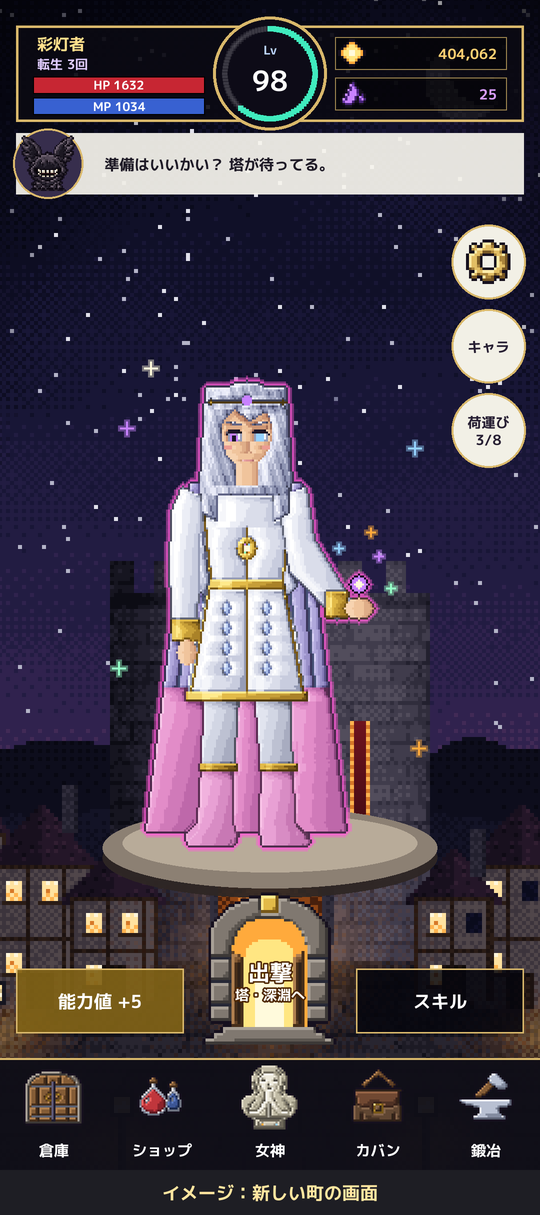
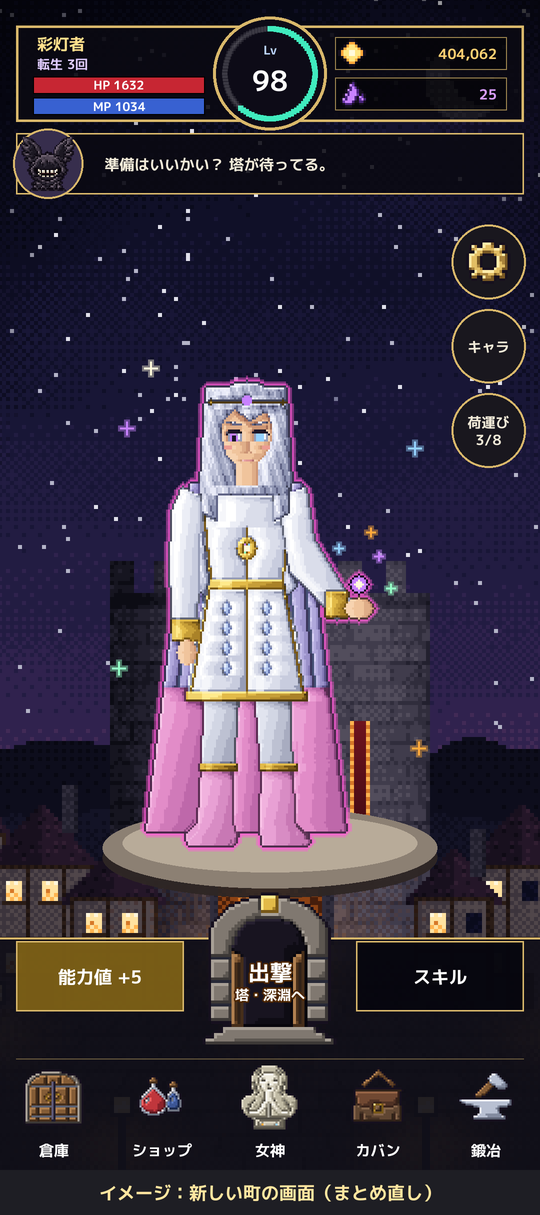
Town home: dark doorway, and a more unified look
Guide banner and round buttons use the same dark panel with gold trim as
the info card; STATS, the gate and SKILLS sit on one dock that continues
into the facility tabs, with the side buttons centered on the gate.

Claude-Session: https://claude.ai/code/session_01XMEo4x59g4Ygvken3HiQNb

diff --git a/Game/Assets/Scripts/Core/PortraitArt.cs b/Game/Assets/Scripts/Core/PortraitArt.cs
@@ -48,8 +48,9 @@ namespace VividOfFade
             return Store(key, MakeTexture(key, w, h, px, TextureWrapMode.Clamp), w);
         }
 
-        /// <summary>町の「出撃」の絵：石の門（開いた扉の奥から灯りがあふれる）と、その前の階段。</summary>
-        public static Sprite GateIcon => Shaded("GateIcon48", GateRows, null, null, 48);
+        /// <summary>町の「出撃」の絵：石の門（開いた扉の奥は暗い塔の中）と、その前の階段。</summary>
+        public static Sprite GateIcon => Shaded("GateIcon48b", GateRows, GateOver, null, 48);
+        static readonly Dictionary<char, Color32[]> GateOver = new Dictionary<char, Color32[]> { { 'n', Ramp(38, 32, 48, 24, 20, 32, 14, 12, 20, 8, 6, 12) } }; // 門の奥：ほとんど黒（塔の中の暗がり）
 
         static readonly string[] GateRows =
         {
@@ -62,43 +63,43 @@ namespace VividOfFade
             ".........qqqqqqqqqqqqggggggqqqqqqqqqqqq.........",
             "........qqqqqqqqqqqqqqqqqqqqqqqqqqqqqqqq........",
             ".......qqqqqqqqqqqqqqqqqqqqqqqqqqqqqqqqqq.......",
-            "......qqqqqqqqqqqqqLLLLLLLLLLqqqqqqqqqqqqq......",
-            ".....qqqqqqqqqqqLLLLLLLLLLLLLLLLqqqqqqqqqqq.....",
-            ".....qqqqqqqqqqLLLLLLLLLLLLLLLLLLqqqqqqqqqq.....",
-            "....qqqqqqqqqqLLLLLLLLLLLLLLLLLLLLqqqqqqqqqq....",
-            "....qqqqqqqqqLLLLLLLLLLLLLLLLLLLLLLqqqqqqqqq....",
-            "....qqqqqqqqqLLLLLLLLLLLLLLLLLLLLLLqqqqqqqqq....",
-            "....qqqqqqqqLLLLLLLLLLLLLLLLLLLLLLLLqqqqqqqq....",
-            "....qqqqqqqqLLLLLLLLllllllllLLLLLLLLqqqqqqqq....",
-            "....qqqqqqqqLLLLLLllllllllllllLLLLLLqqqqqqqq....",
-            "....qqqqqqqLLLLLLllllllllllllllLLLLLLqqqqqqq....",
-            "....qqqqqqqLLLLLllllllllllllllllLLLLLqqqqqqq....",
-            "....qqqqqqqwLLLLllllllllllllllllLLLwLqqqqqqq....",
-            "....qqqqqqqwwwLLllllllllllllllllLwwwLqqqqqqq....",
-            "....iiiiiiiwwwwlllllllllllllllllwwwwLiiiiiii....",
-            "....qqqqqqqwwwwlllllllllllllllllwwwwLqqqqqqq....",
-            "....qqqqqqqwwbwlllllllllllllllllwwbwLqqqqqqq....",
-            "....qqqqqqqwwbwlllllllllllllllllwwbwLqqqqqqq....",
-            "....qqqqqqqwwbwlllllllllllllllllwwbwLqqqqqqq....",
-            "....qqqqqqqwwbwlllllllllllllllllwwbwLqqqqqqq....",
-            "....qqqqqqqwwbwlllloooooooooolllwwbwLqqqqqqq....",
-            "....qqqqqqqwwbwlllloooooooooolllwwbwLqqqqqqq....",
-            "....iiiiiiiwwbwlllloooooooooolllwwbwLiiiiiii....",
-            "....qqqqqqqwwbwlllloooooooooolllwwbwLqqqqqqq....",
-            "....qqqqqqqwwbwlllloooooooooolllwwbwLqqqqqqq....",
-            "....qqqqqqqwwbwlllloooooooooolllwwbwLqqqqqqq....",
-            "....qqqqqqqwwbwlllloooooooooolllwwbwLqqqqqqq....",
-            "....qqqqqqqwwbwlllloooooooooolllwwbwLqqqqqqq....",
-            "....qqqqqqqwwbwlllloooooooooolllwwbwLqqqqqqq....",
-            "....qqqqqqqwwbwlllloooooooooolllwwbwLqqqqqqq....",
-            "....iiiiiiiwwbwlllloooooooooolllwwbwLiiiiiii....",
-            "....qqqqqqqwwbwlllloooooooooolllwwbwLqqqqqqq....",
-            "....qqqqqqqwwbwlllloooooooooolllwwbwLqqqqqqq....",
-            "....qqqqqqqwwbwlllloooooooooolllwwbwLqqqqqqq....",
-            "....qqqqqqqwwbwlllloooooooooolllwwbwLqqqqqqq....",
-            "....qqqqqqqwwbwlllloooooooooolllwwbwLqqqqqqq....",
-            "...........wwbwlllloooooooooolllwwbwL...........",
-            "...........wwwwlllloooooooooolllwwwwL...........",
+            "......qqqqqqqqqqqqqnnnnnnnnnnqqqqqqqqqqqqq......",
+            ".....qqqqqqqqqqqnnnnnnnnnnnnnnnnqqqqqqqqqqq.....",
+            ".....qqqqqqqqqqnnnnnnnnnnnnnnnnnnqqqqqqqqqq.....",
+            "....qqqqqqqqqqnnnnnnnnnnnnnnnnnnnnqqqqqqqqqq....",
+            "....qqqqqqqqqnnnnnnnnnnnnnnnnnnnnnnqqqqqqqqq....",
+            "....qqqqqqqqqnnnnnnnnnnnnnnnnnnnnnnqqqqqqqqq....",
+            "....qqqqqqqqnnnnnnnnnnnnnnnnnnnnnnnnqqqqqqqq....",
+            "....qqqqqqqqnnnnnnnnnnnnnnnnnnnnnnnnqqqqqqqq....",
+            "....qqqqqqqqnnnnnnnnnnnnnnnnnnnnnnnnqqqqqqqq....",
+            "....qqqqqqqnnnnnnnnnnnnnnnnnnnnnnnnnnqqqqqqq....",
+            "....qqqqqqqnnnnnnnnnnnnnnnnnnnnnnnnnnqqqqqqq....",
+            "....qqqqqqqwnnnnnnnnnnnnnnnnnnnnnnnwnqqqqqqq....",
+            "....qqqqqqqwwwnnnnnnnnnnnnnnnnnnnwwwnqqqqqqq....",
+            "....iiiiiiiwwwwnnnnnnnnnnnnnnnnnwwwwniiiiiii....",
+            "....qqqqqqqwwwwnnnnnnnnnnnnnnnnnwwwwnqqqqqqq....",
+            "....qqqqqqqwwbwnnnnnnnnnnnnnnnnnwwbwnqqqqqqq....",
+            "....qqqqqqqwwbwnnnnnnnnnnnnnnnnnwwbwnqqqqqqq....",
+            "....qqqqqqqwwbwnnnnnnnnnnnnnnnnnwwbwnqqqqqqq....",
+            "....qqqqqqqwwbwnnnnnnnnnnnnnnnnnwwbwnqqqqqqq....",
+            "....qqqqqqqwwbwnnnnnnnnnnnnnnnnnwwbwnqqqqqqq....",
+            "....qqqqqqqwwbwnnnnnnnnnnnnnnnnnwwbwnqqqqqqq....",
+            "....iiiiiiiwwbwnnnnnnnnnnnnnnnnnwwbwniiiiiii....",
+            "....qqqqqqqwwbwnnnnnnnnnnnnnnnnnwwbwnqqqqqqq....",
+            "....qqqqqqqwwbwnnnnnnnnnnnnnnnnnwwbwnqqqqqqq....",
+            "....qqqqqqqwwbwnnnnnnnnnnnnnnnnnwwbwnqqqqqqq....",
+            "....qqqqqqqwwbwnnnnnnnnnnnnnnnnnwwbwnqqqqqqq....",
+            "....qqqqqqqwwbwnnnnnnnnnnnnnnnnnwwbwnqqqqqqq....",
+            "....qqqqqqqwwbwnnnnnnnnnnnnnnnnnwwbwnqqqqqqq....",
+            "....qqqqqqqwwbwnnnnnnnnnnnnnnnnnwwbwnqqqqqqq....",
+            "....iiiiiiiwwbwnnnnnnnnnnnnnnnnnwwbwniiiiiii....",
+            "....qqqqqqqwwbwnnnnnnnnnnnnnnnnnwwbwnqqqqqqq....",
+            "....qqqqqqqwwbwnnnnnnnnnnnnnnnnnwwbwnqqqqqqq....",
+            "....qqqqqqqwwbwnnnnnnnnnnnnnnnnnwwbwnqqqqqqq....",
+            "....qqqqqqqwwbwnnnnnnnnnnnnnnnnnwwbwnqqqqqqq....",
+            "....qqqqqqqwwbwnnnnnnnnnnnnnnnnnwwbwnqqqqqqq....",
+            "...........wwbwnnnnnnnnnnnnnnnnnwwbwn...........",
+            "...........wwwwnnnnnnnnnnnnnnnnnwwwwn...........",
             "........qqqqqqqqqqqqqqqqqqqqqqqqqqqqqqqq........",
             "........qqqqqqqqqqqqqqqqqqqqqqqqqqqqqqqq........",
             ".....qqqqqqqqqqqqqqqqqqqqqqqqqqqqqqqqqqqqqq.....",

diff --git a/Game/Assets/Scripts/UI/TownScreen.cs b/Game/Assets/Scripts/UI/TownScreen.cs
@@ -212,14 +212,15 @@ namespace VividOfFade
             if (!ch.Ascended)
             {
                 var ban = new Rect(pad, below, W - pad * 2f, H * 0.052f);
-                Hud.Fill(ban, new Color(0.97f, 0.96f, 0.93f, 0.92f));
+                Hud.Fill(ban, panelBack);
+                Hud.OrnateFrame(ban, Hud.FrameGold, frameT, false, false);
                 float gd = ban.height * 1.15f;
                 var gr = new Rect(ban.x - gd * 0.05f, ban.center.y - gd * 0.5f, gd, gd);
                 DrawDisk(gr, new Color(0.85f, 0.72f, 0.42f, 1f));
                 DrawDisk(new Rect(gr.x + 3f, gr.y + 3f, gr.width - 6f, gr.height - 6f), new Color(0.22f, 0.18f, 0.3f, 1f));
                 Hud.DrawSprite(new Rect(gr.x + gd * 0.1f, gr.y + gd * 0.1f, gd * 0.8f, gd * 0.8f), PixelArt.Guide);
                 var say = new GUIStyle(small) { wordWrap = true, alignment = TextAnchor.MiddleLeft };
-                say.normal.textColor = new Color(0.12f, 0.1f, 0.15f);
+                say.normal.textColor = new Color(0.95f, 0.92f, 0.85f);
                 GUI.Label(new Rect(gr.xMax + W * 0.02f, ban.y, ban.xMax - gr.xMax - W * 0.04f, ban.height), Greeting(ch), say);
                 below = ban.yMax + H * 0.008f;
             }
@@ -236,8 +237,9 @@ namespace VividOfFade
             // ---- 出撃の門と、左右の能力値・スキル ----
             float gateH = H * 0.13f, gateW = gateH * 48f / 52f;
             var gate = new Rect((W - gateW) * 0.5f, tabBar.y - H * 0.012f - gateH, gateW, gateH);
-            float sideH = H * 0.055f, sideW = (W - pad * 2f - gateW) * 0.5f - W * 0.03f;
-            var statsR = new Rect(pad, gate.yMax - sideH - H * 0.01f, sideW, sideH);
+            float sideH = H * 0.06f, sideW = (W - pad * 2f - gateW) * 0.5f - W * 0.03f;
+            var statsR = new Rect(pad, gate.y + gateH * 0.55f - sideH * 0.5f, sideW, sideH);
+            var dock = new Rect(0, gate.y + gateH * 0.3f, W, H - (gate.y + gateH * 0.3f)); // 下の台（門の下半分からタブまで）
             var skillR = new Rect(W - pad - sideW, statsR.y, sideW, sideH);
 
             // ---- 真ん中：台座の上の自分 ----
@@ -266,12 +268,12 @@ namespace VividOfFade
                 var labels = new[] { Loc.T("Settings", "設定"), Loc.T("Chars", "キャラ"), Loc.T($"Porter {ch.CarrySlots}/{Town.MaxCarrySlots}", $"荷運び\n{ch.CarrySlots}/{Town.MaxCarrySlots}") };
                 System.Action[] taps = { world.OpenSettings, world.ShowClassSelect, () => Open(Panel.Porter) };
                 var lab = new GUIStyle(small) { alignment = TextAnchor.MiddleCenter, fontStyle = FontStyle.Bold, wordWrap = true };
-                lab.normal.textColor = new Color(0.15f, 0.12f, 0.2f);
+                lab.normal.textColor = new Color(0.95f, 0.92f, 0.85f);
                 for (int k = 0; k < 3; k++)
                 {
                     var r = new Rect(x, y + k * (d + H * 0.012f), d, d);
                     DrawDisk(new Rect(r.x - frameT * 2f, r.y - frameT * 2f, d + frameT * 4f, d + frameT * 4f), Hud.FrameGold);
-                    DrawDisk(r, new Color(0.95f, 0.94f, 0.9f, 0.95f));
+                    DrawDisk(r, new Color(0.06f, 0.055f, 0.1f, 0.95f));
                     hud.Button(r, null, new Color(0f, 0f, 0f, 0f), centered, taps[k]);
                     if (k == 0) Hud.DrawSprite(new Rect(r.x + d * 0.18f, r.y + d * 0.18f, d * 0.64f, d * 0.64f), PixelArt.GearIcon);
                     else if (k == 1) { Hud.DrawSprite(new Rect(r.x + d * 0.2f, r.y + d * 0.06f, d * 0.6f, d * 0.6f), PixelArt.PlayerFor(ch)); Hud.FitLabel(new Rect(r.x, r.y + d * 0.62f, d, d * 0.3f), labels[k], lab); }
@@ -279,9 +281,12 @@ namespace VividOfFade
                 }
             }
 
-            // ---- 出撃の門（押すと出撃）と、能力値・スキル ----
+            // ---- 出撃の門（押すと出撃）と、能力値・スキル。下の台に乗せる ----
+            Hud.Fill(dock, new Color(0.06f, 0.055f, 0.09f, 0.92f));
+            Hud.Fill(new Rect(0, dock.y, W, frameT * 2f), Hud.FrameGold);
+            Hud.Fill(new Rect(0, dock.y + frameT * 2f, W, frameT), new Color(1f, 0.95f, 0.75f, 0.35f));
             {
-                Hud.Glow(gate.center.x, gate.center.y + gateH * 0.05f, gateW * 0.75f, new Color(1f, 0.8f, 0.45f, 0.35f + 0.1f * Mathf.Sin(Time.unscaledTime * 2f)));
+                Hud.Glow(gate.center.x, gate.center.y + gateH * 0.05f, gateW * 0.6f, new Color(1f, 0.8f, 0.45f, 0.12f + 0.05f * Mathf.Sin(Time.unscaledTime * 2f))); // 門のまわりにかすかな灯り（中は暗い）
                 Hud.DrawSprite(gate, PixelArt.GateIcon);
                 hud.Button(gate, null, new Color(0f, 0f, 0f, 0f), centered, world.Depart);
                 var dep = new GUIStyle(hud.LabelStyle) { alignment = TextAnchor.MiddleCenter, fontStyle = FontStyle.Bold };
@@ -301,8 +306,7 @@ namespace VividOfFade
             }
 
             // ---- 施設のタブ（倉庫・ショップ・女神・カバン・鍛冶） ----
-            Hud.Fill(tabBar, new Color(0.06f, 0.055f, 0.09f, 0.96f));
-            Hud.Fill(new Rect(0, tabBar.y, W, frameT * 2f), Hud.FrameGold);
+            Hud.Fill(new Rect(pad, tabBar.y, W - pad * 2f, 1f), new Color(0.85f, 0.72f, 0.42f, 0.45f)); // 台の中の仕切り
             {
                 float cw = W / 5f;
                 var name = new GUIStyle(small) { fontStyle = FontStyle.Bold, alignment = TextAnchor.MiddleCenter };
